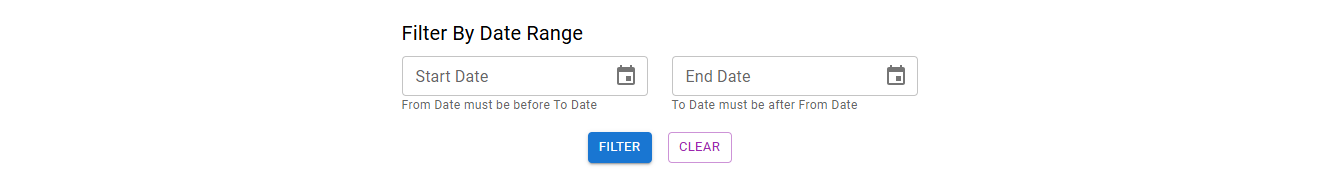
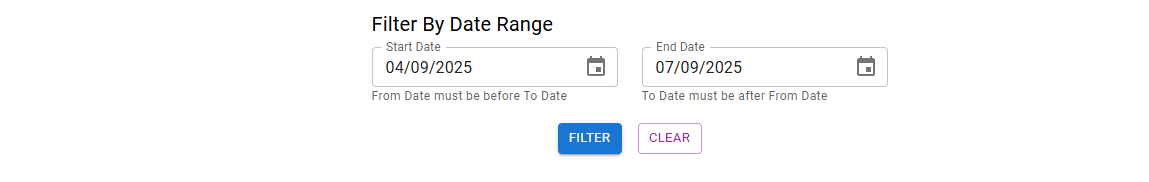
readme updated

Changed region(s): [[0.3046, 0.0833, 0.792, 0.6111], [0.4265, 0.6667, 0.6092, 0.9167], [0.7311, 0.3056, 0.7615, 0.4167]]

diff --git a/src/components/DashboardComponent/DashboardView.js b/src/components/DashboardComponent/DashboardView.js
@@ -35,7 +35,10 @@ function DashboardView() {
   const [error, setError] = useState('');
   const [transactions, setTransactions] = useState([]);
   const [filteredTxns, setFilteredTxns] = useState([]);
-  const [dateRange, setDateRange] = useState({ start: null, end: null });
+  const [dateRange, setDateRange] = useState({
+    start: dayjs().subtract(3, 'month'),
+    end: dayjs(),
+  });
 
   useEffect(() => {
     logger.info('[Dashboard] Fetching transactions...');

diff --git a/README.md b/README.md
@@ -32,7 +32,7 @@ Your app is ready to be deployed!
 
 ### `Screen for data filter by date range`
 
-![filter-screen-preview](./assets/filter-screen.png)
+![filter-screen-preview]![alt text](image.png)(./assets/filter-screen.png)
 
 ### `Table for Users monthly rewards`
 ![alt text]![alt text](image.png)(./assets/users-monthly-rewards.png)
@@ -43,7 +43,7 @@ Your app is ready to be deployed!
 
 ### `Screen for total rewards accumulated by different customers`
 
-![Total rewards preview]![alt text](image.png)(./assets/total-rewards.png)
+![Total rewards preview](./assets/total-rewards.png)
 
 
 ### `Screen for transaction records of customers`
